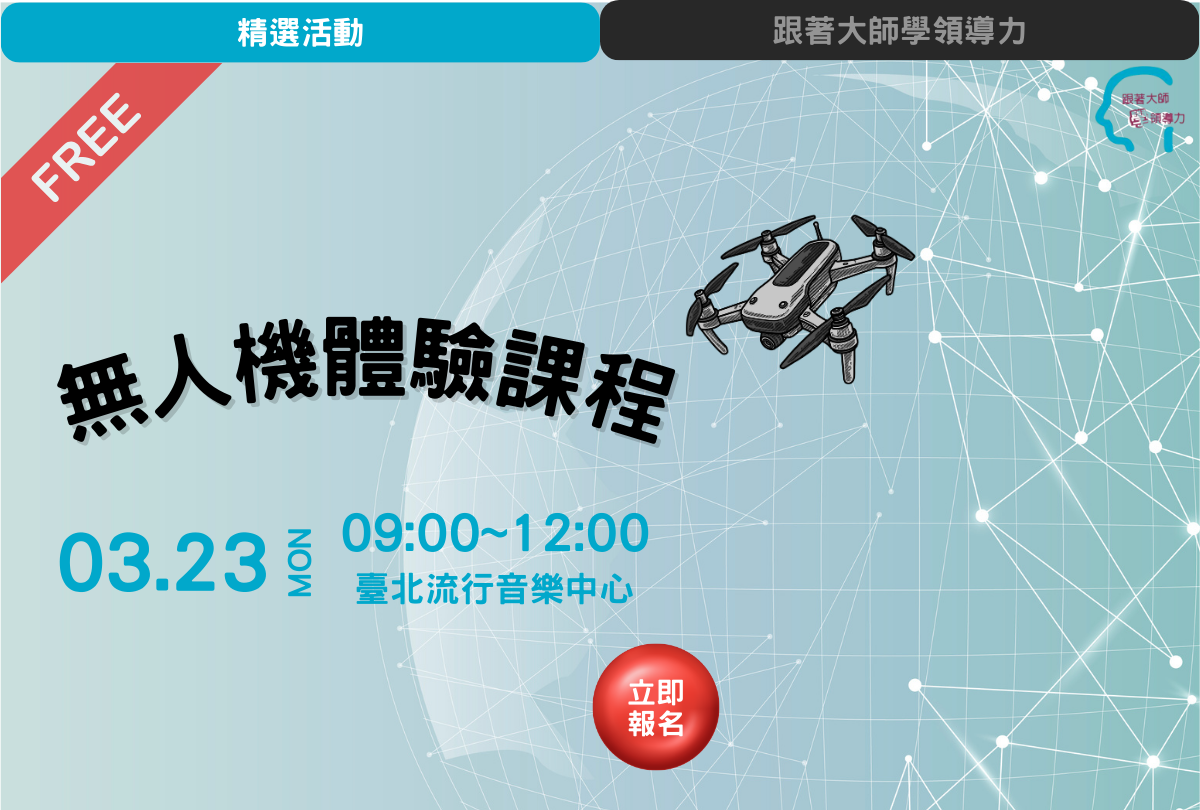
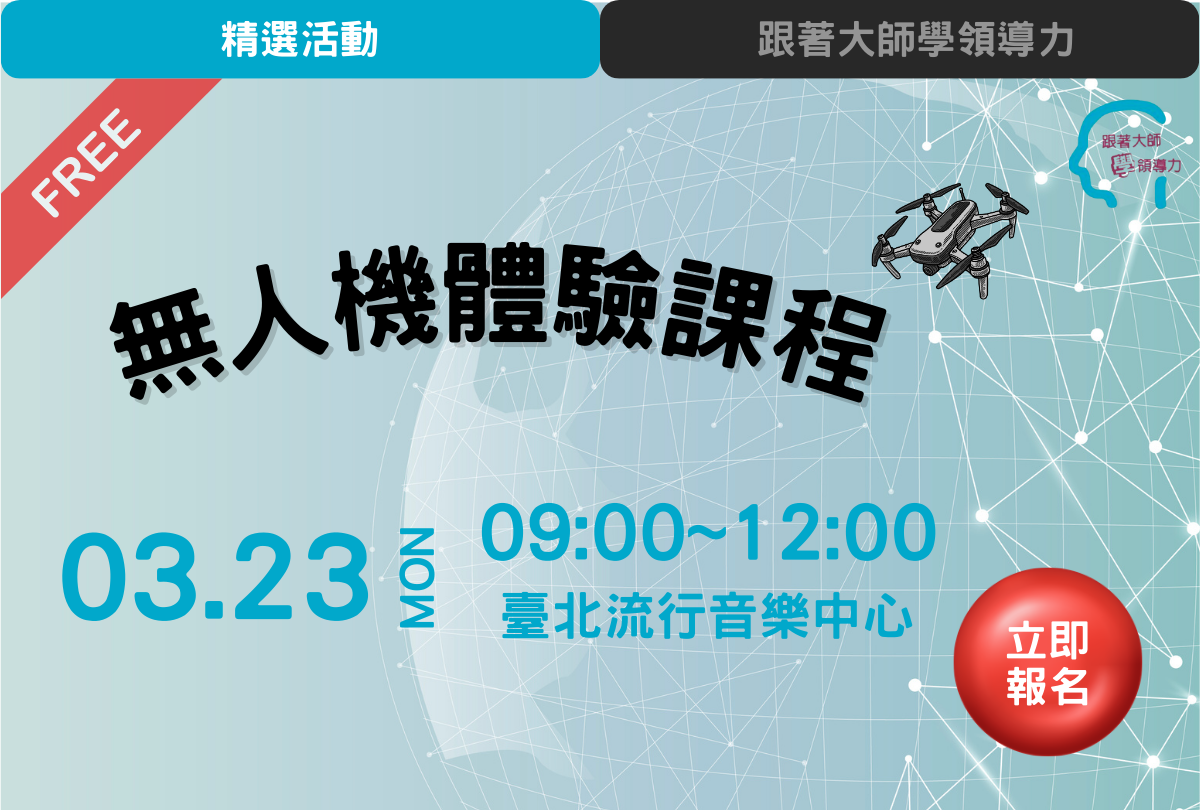
feat: 更新圖文選單圖片，調整報名按鈕坐標至右下角

diff --git a/richMenu.js b/richMenu.js
@@ -54,9 +54,9 @@ const richMenu1 = {
                 clipboardText: '跟著大師學領導力',
             },
         },
-        // 下方「立即報名」紅色圓形按鈕（中下方）
+        // 下方「立即報名」紅色圓形按鈕（右下角）
         {
-            bounds: { x: 450, y: 635, width: 190, height: 175 },
+            bounds: { x: 940, y: 615, width: 200, height: 195 },
             action: {
                 type: 'uri',
                 uri: GOOGLE_FORM_URL,
